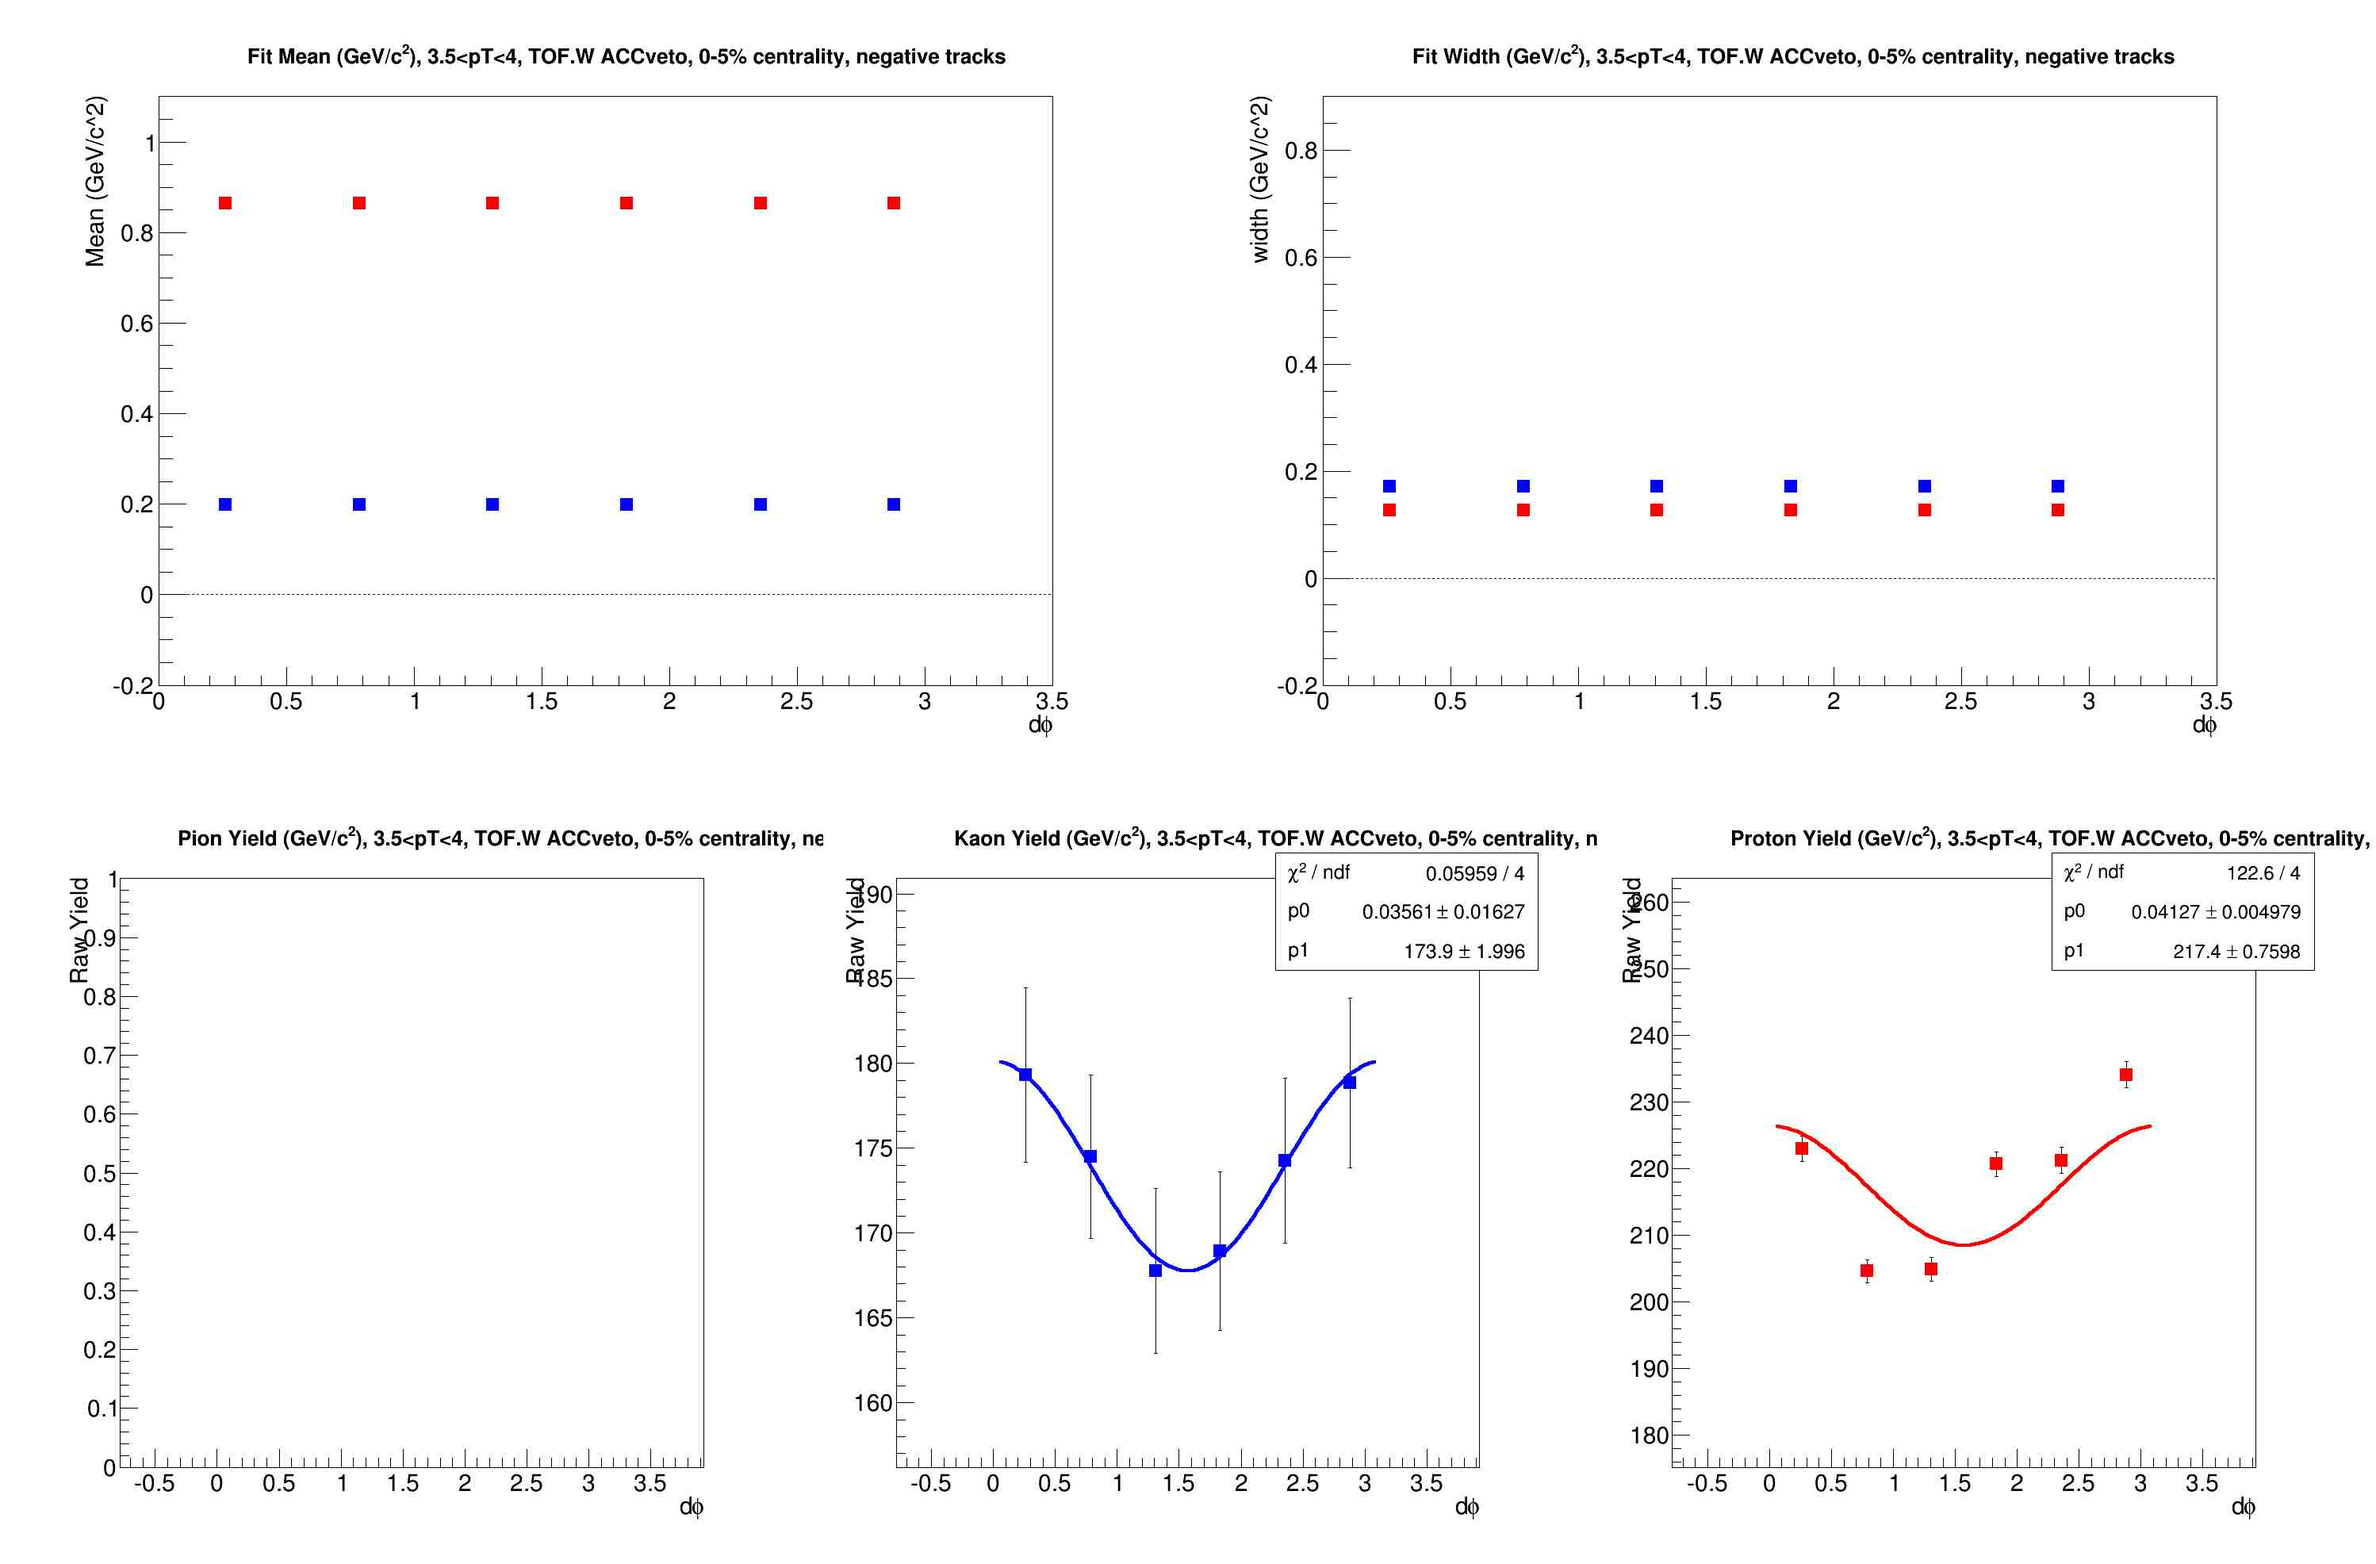
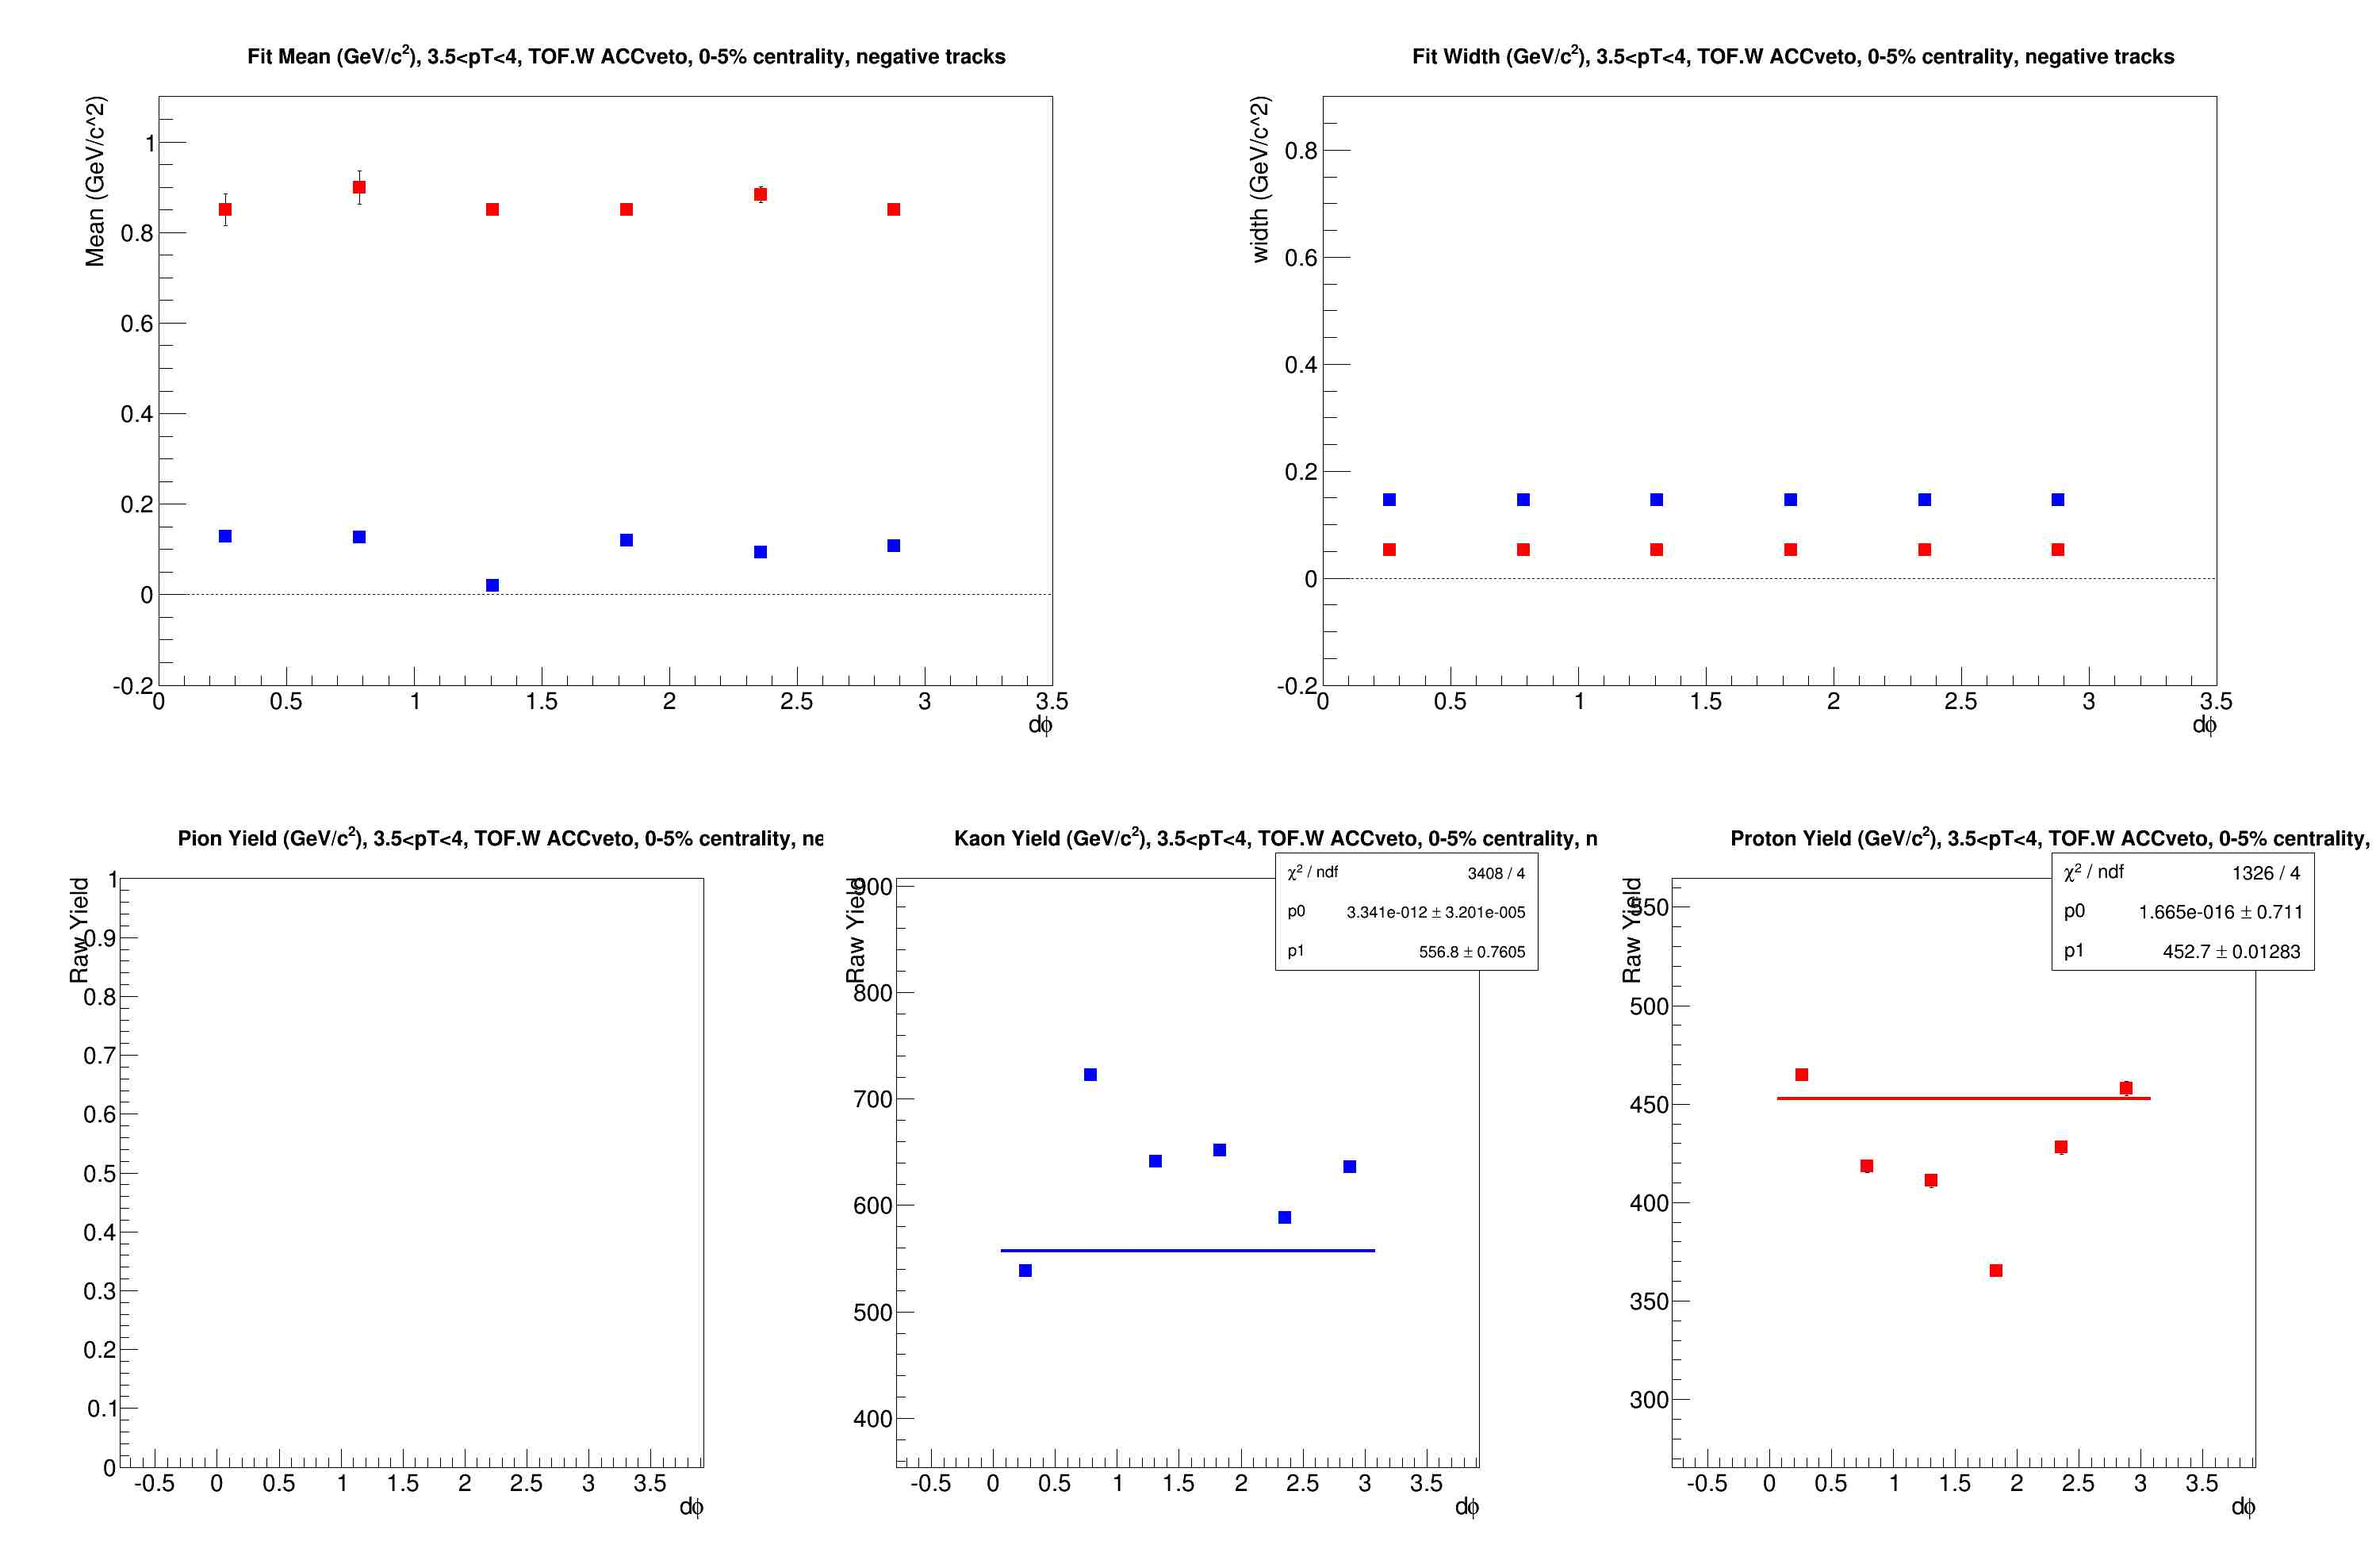
update sept 10

diff --git a/fitTuningParsNeg.C b/fitTuningParsNeg.C
@@ -186,7 +186,7 @@ parstruct loadFitParamsNeg(int ptbin) {
   
   if(ptbin ==13 && fireACC == 0) {
     cout << "Loading params for ptbin " << ptbin << " with fireACC: " << fireACC << "..." << endl;
-    float ptrange[2] = {3.5,4.0};
+    float ptrange[2] = {2.9,3.5};
     int    Nrebin            = 4;
     int    kUseLogLowBins    = 0;
     int    twogausfit        = 1;
@@ -201,7 +201,7 @@ parstruct loadFitParamsNeg(int ptbin) {
     float  protwidthrange[2] = {0.05,0.15};
     float  pionfitrange[2]   = {-0.5,0.2};
     float  kaonfitrange[2]   = {0.2,0.4};
-    float  protfitrange[2]   = {0.8,1.3};
+    float  protfitrange[2]   = {0.5,1.3};
     //float tunepionheight[6] = {1.15,1.15,1.08,1.12,1.08,1.12};
     //float tunepionwidth[6]  = {1,1.02,1.02.02,1.02,1.02,1.05};
     //float tunepionmean[6]   = {0.02,0.02,0.02,0.02,0.02,0.01};
@@ -209,8 +209,8 @@ parstruct loadFitParamsNeg(int ptbin) {
     //float tunekaonheight[6] = {1.1,1.1,0.86,0.94,0.93,1};
     //float tuneprotheight[6] = {0.65*-10E-5,0.5*-10E-5,0.6*-10E-5,0.6*-10E-5,0.6*-10E-5,0.64*-10E-5};
 
-    float tunekaonheight[6] = {0.86,1.08,0.95,1.05,1,0.98};
-    float tuneprotheight[6] = {1.04,1.05,1,1,1,1};
+    float tunekaonheight[6] = {1,1.15,0.9,1.05,1.14,0.97};
+    float tuneprotheight[6] = {0.94,0.98,1,0.97,0.98,0.98};
 
     float tunekaonwidth[6]  = {1,1,1,1,1,1};
     float tunekaonmean[6]   = {0,0,0,0,0,0};
@@ -315,6 +315,36 @@ parstruct loadFitParamsNeg(int ptbin) {
     cout << "Loading params for ptbin " << ptbin << " with fireACC: " << fireACC << "..." << endl;
     float ptrange[2] = {5.5,6.5};
     int    Nrebin            = 4;
+    int    kUseLogLowBins    = 0;
+    int    twogausfit        = 1;
+    int    threegausfit      = 0;
+    float  protmeanvariance  = 0.05;
+    float  protwidthvariance = 0.05;
+    float  pionmeanrange[2]  = {-0.1,0.05};
+    float  kaonmeanrange[2]  = {0,0.2};
+    float  protmeanrange[2]  = {0.85,0.9};
+    float  pionwidthrange[2] = {0.05,0.1};
+    float  kaonwidthrange[2] = {0.05,0.15};
+    float  protwidthrange[2] = {0.05,0.15};
+    float  pionfitrange[2]   = {-0.5,0.2};
+    float  kaonfitrange[2]   = {-0.4,0.4};
+    float  protfitrange[2]   = {0.6,1.2};
+    //float tunepionheight[6] = {1.15,1.15,1.08,1.12,1.08,1.12};
+    //float tunepionwidth[6]  = {1,1.02,1.02.02,1.02,1.02,1.05};
+    //float tunepionmean[6]   = {0.02,0.02,0.02,0.02,0.02,0.01};
+
+    float tunekaonheight[6] = {1.3,1.39,1.32,1.39,1.23,1.24};
+    float tunekaonwidth[6]  = {1.7,1.6,1.7,1.7,1.5,1.55};
+    float tunekaonmean[6]   = {-0.04,0.07,0.02,-0.05,-0.05,0.01};
+    
+    float tuneprotheight[6] = {1.2,1,1.09,1.1,1.15,1.03};
+    float tuneprotwidth[6]  = {1.4,1.2,0.1,-0.05,1.3,-0.05};
+    float tuneprotmean[6]   = {0.01,0,0.02,0,0.0,0};
+  } 
+    if(ptbin ==18 && fireACC == 0) {
+    cout << "Loading params for ptbin " << ptbin << " with fireACC: " << fireACC << "..." << endl;
+    float ptrange[2] = {4.0,4.5};
+    int    Nrebin            = 5;
     int    kUseLogLowBins    = 0;
     int    twogausfit        = 1;
     int    threegausfit      = 0;

diff --git a/tuneACCfits.C b/tuneACCfits.C
@@ -36,8 +36,10 @@ void tuneACCfits()
   importfromStruct(fitTuning);
 
   if(ptbin< 12) { float ptrange[2] = {0.5+ptbin*0.2,0.5+(ptbin+1)*0.2};        }
-  if(ptbin>=12) { float ptrange[2] = {3.0+(ptbin-12)*0.5,3.0+(ptbin-11)*0.5};  }
-  if(ptbin>=15) { float ptrange[2] = {4.5+(ptbin-15),4.5+(ptbin-14)};  }
+  if(ptbin==13) { float ptrange[2] = {2.9,3.5};  }
+  if(ptbin==14) { float ptrange[2] = {3.5,3.9};  }
+  if(ptbin==15) { float ptrange[2] = {3.9,4.5};  }
+  //if(ptbin>=15) { float ptrange[2] = {4.5+(ptbin-15),4.5+(ptbin-14)};  }
   char titlestring[128];
   if(fireACC == 0) {
     sprintf(titlestring,"chkparams/parbkup/v2Par_tof%i_cent%i_ch%i_pT-%g-%g.txt",itof,icent,ich,ptrange[0]*10,ptrange[1]*10);
@@ -80,9 +82,22 @@ void tuneACCfits()
   char titlestring[128];
   for(int idphi=0; idphi<=5;idphi++) {
     float accthresh = setACCthresh(ptbin);
+    
     sprintf(getHistName,"h_m2tofvsacc_icent%i_ich%i_idphi%i_pt%i",icent,ich,idphi,ptbin);
     cout << "getting histogram: " << getHistName << endl;
     h_nphotvsm2[icent][idphi][ptbin] = (TH2F*)inFile.Get(getHistName);
+    if(ptbin>=13) {
+      sprintf(getHistName,"h_m2tofvsacc_icent%i_ich%i_idphi%i_pt%i",icent,ich,idphi,ptbin+1);
+      cout << "adding histogram (hi pT): " << getHistName << endl;
+      TH2F * h_nphotvsm2_1 = (TH2F*)inFile.Get(getHistName);
+      sprintf(getHistName,"h_m2tofvsacc_icent%i_ich%i_idphi%i_pt%i",icent,ich,idphi,ptbin+2);
+      cout << "adding histogram (hi pT): " << getHistName << endl;
+      TH2F * h_nphotvsm2_2 = (TH2F*)inFile.Get(getHistName);
+      h_nphotvsm2[icent][idphi][ptbin]->Add(h_nphotvsm2_1);
+      h_nphotvsm2[icent][idphi][ptbin]->Add(h_nphotvsm2_2);
+    }
+    //cout << h_nphotvsm2[icent][idphi][ptbin]->GetTitle() << endl; 
+
     if(runnoEP==1) continue;
     //c_nphot->cd(ptbin+1);
     //h_nphotvsm2[icent][idphi][ptbin]->Draw();
@@ -115,6 +130,8 @@ if(runnoEP==0) {
   sprintf(titlestring,"2x3/PSm2_cent%i_ich%i_accfire%i_ptbin%i.jpg",icent,ich,fireACC,ptbin);
   c_PS->SaveAs(titlestring);
 }
+
+
   if(runnoEP==1) idphi=4;
   TH2F *h_all = (TH2F*)h_nphotvsm2[0][0][ptbin]->Clone("h_all");
   h_all->Add(h_nphotvsm2[0][1][ptbin]);

diff --git a/fitTuningParsnoEP.C b/fitTuningParsnoEP.C
@@ -31,7 +31,7 @@ parstruct loadFitParamsnoEP() {
   parstruct fitTuning;
   if(ptbin==13 && ich==0) {
     cout << "Loading params for ptbin " << ptbin << " with fireACC: " << fireACC << " FOR NO EP..." << endl;
-    float ptrange[2] = {3.5,4};
+    float ptrange[2] = {2.9,3.5};
     int    Nrebin            = 1;
     int    kUseLogLowBins    = 0;
     int    twogausfit        = 1;
@@ -43,19 +43,19 @@ parstruct loadFitParamsnoEP() {
     float  protmeanrange[2]  = {0.8,0.95};
     float  pionwidthrange[2] = {0.1,0.5};
     float  kaonwidthrange[2] = {0.1,0.1};
-    float  protwidthrange[2] = {0.000001,0.00001};
+    float  protwidthrange[2] = {0.01,0.1};
     float  pionfitrange[2]   = {-0.1,0.2};
     float  kaonfitrange[2]   = {-0.1,0.4};
-    float  protfitrange[2]   = {0.5,1.1};
-    float tunepionheight[6] = {1,1,1,1,1,1};
-    float tunepionwidth[6]  = {1,1,1,1,0.95,1};
-    float tunepionmean[6]   = {0,0,0,0,0,0};
-    float tunekaonheight[6] = {1,1,1,1,1.05,1};
-    float tunekaonwidth[6]  = {1,1,1,1,0.95,1};
-    float tunekaonmean[6]   = {0,0,0,0,0.1,0};
-    float tuneprotheight[6] = {1,1,1,1,.0013,1};
-    float tuneprotwidth[6]  = {1,1,1,1,.018,1};
-    float tuneprotmean[6]   = {0,0,0,0,0.05,0};
+    float  protfitrange[2]   = {0.6,1.3};
+    //float tunepionheight[6] = {1,1,1,1,1,1};
+    //float tunepionwidth[6]  = {1,1,1,1,0.95,1};
+    //float tunepionmean[6]   = {0,0,0,0,0,0};
+    float tunekaonheight[6] = {1,1,1,1,0.54,1};
+    float tunekaonwidth[6]  = {1,1,1,1,0.37,1};
+    float tunekaonmean[6]   = {0,0,0,0,-0.12,0};
+    float tuneprotheight[6] = {1,1,1,1,.00000017,1};
+    float tuneprotwidth[6]  = {1,1,1,1,0.00002,1};
+    float tuneprotmean[6]   = {0,0,0,0,-0.05,0};
   }
 
   if(ptbin==14 && ich==0) {

diff --git a/tuneACCfitsFixPar.C b/tuneACCfitsFixPar.C
@@ -36,8 +36,9 @@ void tuneACCfitsFixPar()
   importfromStruct(fitTuning);
 
   if(ptbin< 12) { float ptrange[2] = {0.5+ptbin*0.2,0.5+(ptbin+1)*0.2};        }
-  if(ptbin>=12) { float ptrange[2] = {3.0+(ptbin-12)*0.5,3.0+(ptbin-11)*0.5};  }
-  if(ptbin>=15) { float ptrange[2] = {4.5+(ptbin-15),4.5+(ptbin-14)};  }
+  if(ptbin==13) { float ptrange[2] = {2.9,3.5};  }
+  if(ptbin==14) { float ptrange[2] = {3.5,3.9};  }
+  if(ptbin==15) { float ptrange[2] = {3.9,4.5};  }
   char titlestring[128];
   if(fireACC == 0) {
     sprintf(titlestring,"chkparams/parbkup/v2Par_tof%i_cent%i_ch%i_pT-%g-%g.txt",itof,icent,ich,ptrange[0]*10,ptrange[1]*10);
@@ -83,6 +84,16 @@ void tuneACCfitsFixPar()
     sprintf(getHistName,"h_m2tofvsacc_icent%i_ich%i_idphi%i_pt%i",icent,ich,idphi,ptbin);
     cout << "getting histogram: " << getHistName << endl;
     h_nphotvsm2[icent][idphi][ptbin] = (TH2F*)inFile.Get(getHistName);
+    if(ptbin>=13) {
+      sprintf(getHistName,"h_m2tofvsacc_icent%i_ich%i_idphi%i_pt%i",icent,ich,idphi,ptbin+1);
+      cout << "adding histogram (hi pT): " << getHistName << endl;
+      TH2F * h_nphotvsm2_1 = (TH2F*)inFile.Get(getHistName);
+      sprintf(getHistName,"h_m2tofvsacc_icent%i_ich%i_idphi%i_pt%i",icent,ich,idphi,ptbin+2);
+      cout << "adding histogram (hi pT): " << getHistName << endl;
+      TH2F * h_nphotvsm2_2 = (TH2F*)inFile.Get(getHistName);
+      h_nphotvsm2[icent][idphi][ptbin]->Add(h_nphotvsm2_1);
+      h_nphotvsm2[icent][idphi][ptbin]->Add(h_nphotvsm2_2);
+    }
     if(runnoEP==1) continue;
     //c_nphot->cd(ptbin+1);
     //h_nphotvsm2[icent][idphi][ptbin]->Draw();

diff --git a/Run8dA_pidACC.C b/Run8dA_pidACC.C
@@ -1567,7 +1567,6 @@ TCanvas * fit_m2_kprot(TH1D * h, int whichtof, int centbin, int charge, int idph
 
     h->Fit("fun2","RQ0N","same");
 
-
     //**********************************
     //Set initial parameters for the kaon
     //**********************************
@@ -1611,6 +1610,7 @@ TCanvas * fit_m2_kprot(TH1D * h, int whichtof, int centbin, int charge, int idph
       fun_proton->SetParError(ipar,  fun2->GetParError(ipar)); 
     }
 
+    cout << fun_proton->GetParameter(1) << "asdgfsadglkdg;jaasdfasdfasdfasdfasdfasdfadsfasDF" <<endl;
     //cout << fun_proton->GetParameter(0) << endl;
           
     if(idphi==0) {
@@ -1992,13 +1992,13 @@ float justCount(TH1D * h, float thresh, int upordown) {
 
 TCanvas * fitFixedParkprot(TH1D * h, int whichtof, int centbin, int charge, int idphi, float ptrange[])
 {
-  if(ptrange[0] == 3.5 && ich==0) {
+  if(ptbin == 13 && ich==0) {
     float pion1 = -0.00461841;  
-    float pion2 = 0.176268   ;  
-    float kaon1 = 0.199047   ;  
-    float kaon2 = 0.171694   ;  
-    float prot1 = 0.863529   ;  
-    float prot2 = 0.126773   ;  
+    float pion2 = 0.176268   ; 
+    float kaon1 = 0.163188   ;  
+    float kaon2 = 0.236951   ;  
+    float prot1 = 0.868735   ;  
+    float prot2 = 0.00850419 ;  
   }
   if(ptrange[0] == 3.5 && ich==1) {
     float pion1 = -0.0204344;  
